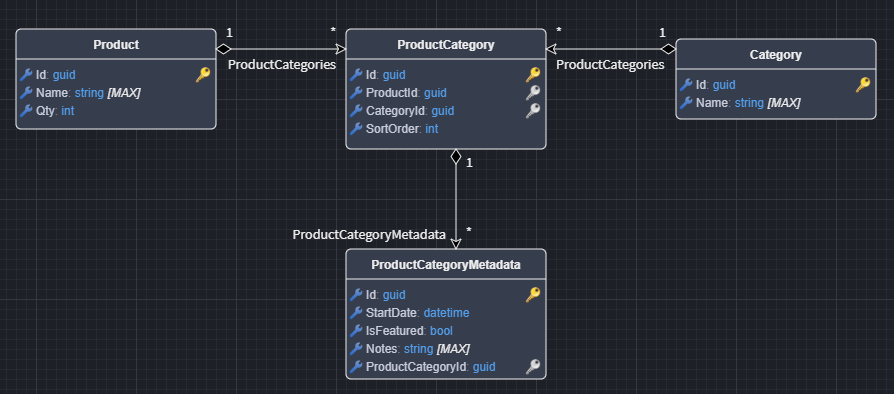
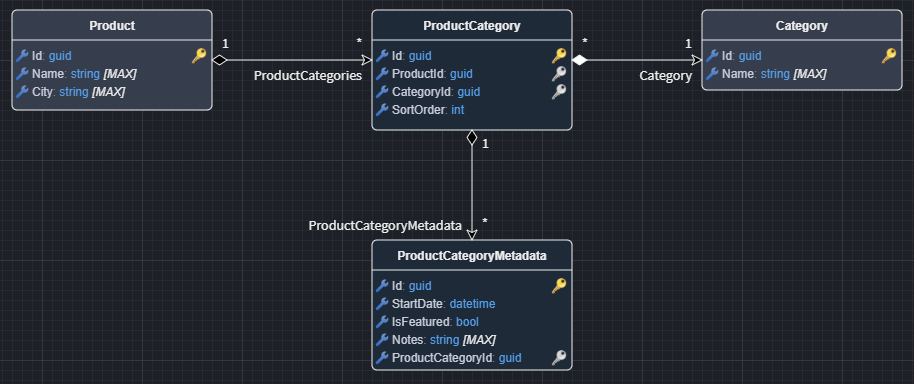
Update README.md to clarify join table modeling in Entity Framework Core and replace images for many-to-many relationships

diff --git a/Modules/Intent.Modules.EntityFrameworkCore/docs/README.md b/Modules/Intent.Modules.EntityFrameworkCore/docs/README.md
@@ -162,15 +162,17 @@ However, the joining table can also be explicitly modeled if preferred. Both app
 
 #### Implicit Join Table
 
-When not modeling the joining table explicitly, Entity Framework will generate the necessary intermediate table automatically:
+When you don't explicitly model the join table, Entity Framework will automatically create the intermediate join table for many-to-many relationships:
 
 ![Implicit Many-To-Many](images/many-to-many-no-join.png)
 
 #### Explicit Join Table
 
-You can also model the join table directly in the domain:
+You can also model the join table explicitly in the domain:
 
 ![Explicit Many-To-Many](images/many-to-many-with-join.png)
+
+In this approach, the Product entity takes ownership of its relationships with the Category entity.
 
 #### When to Model the Join Table
 
